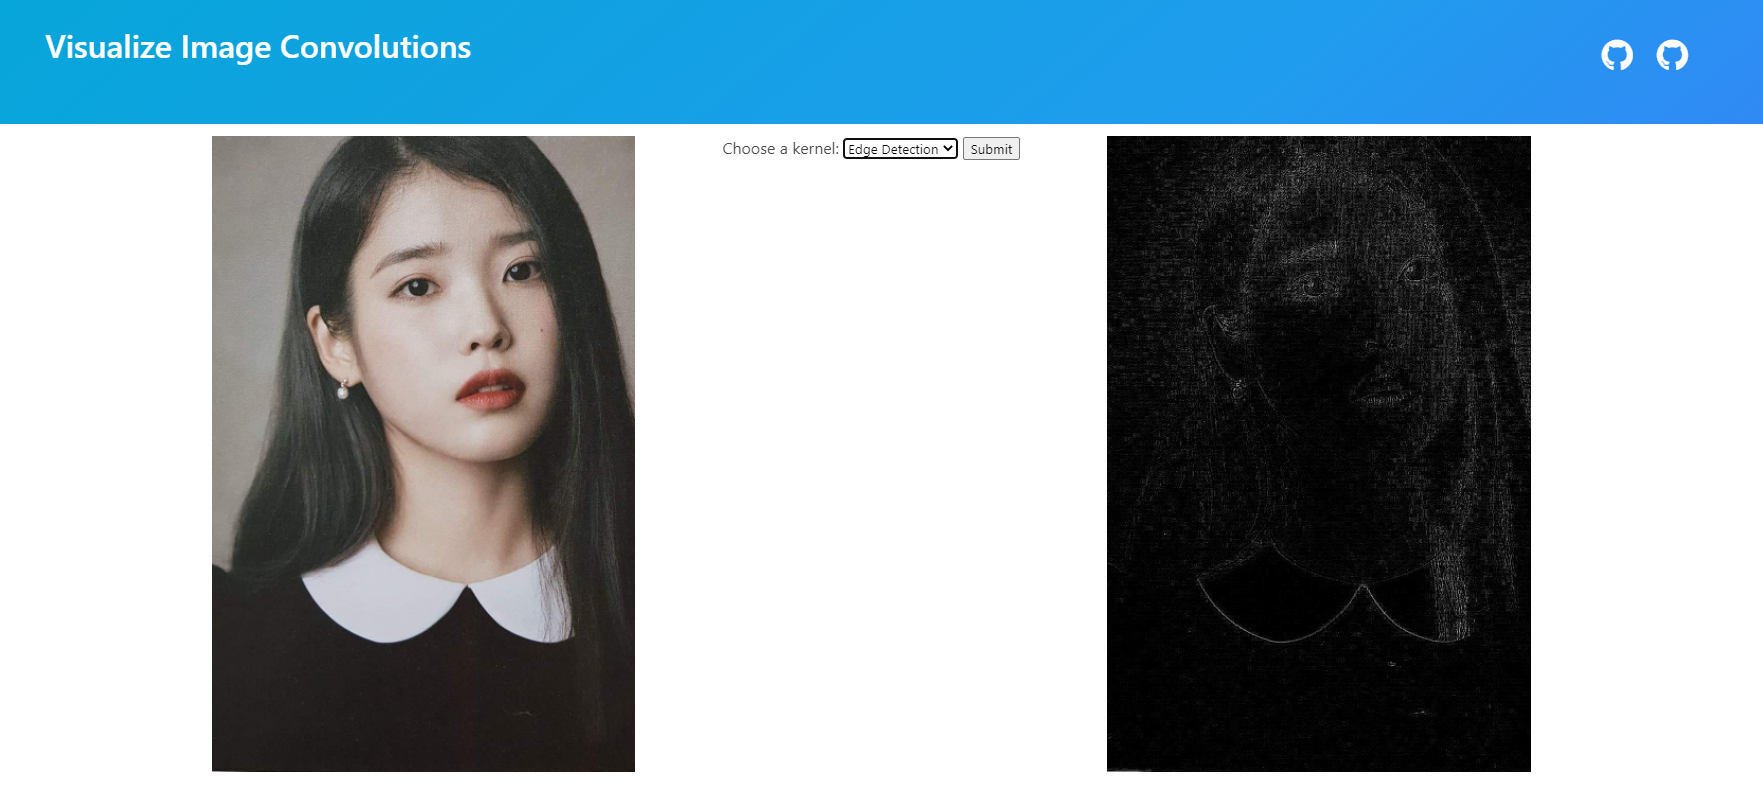
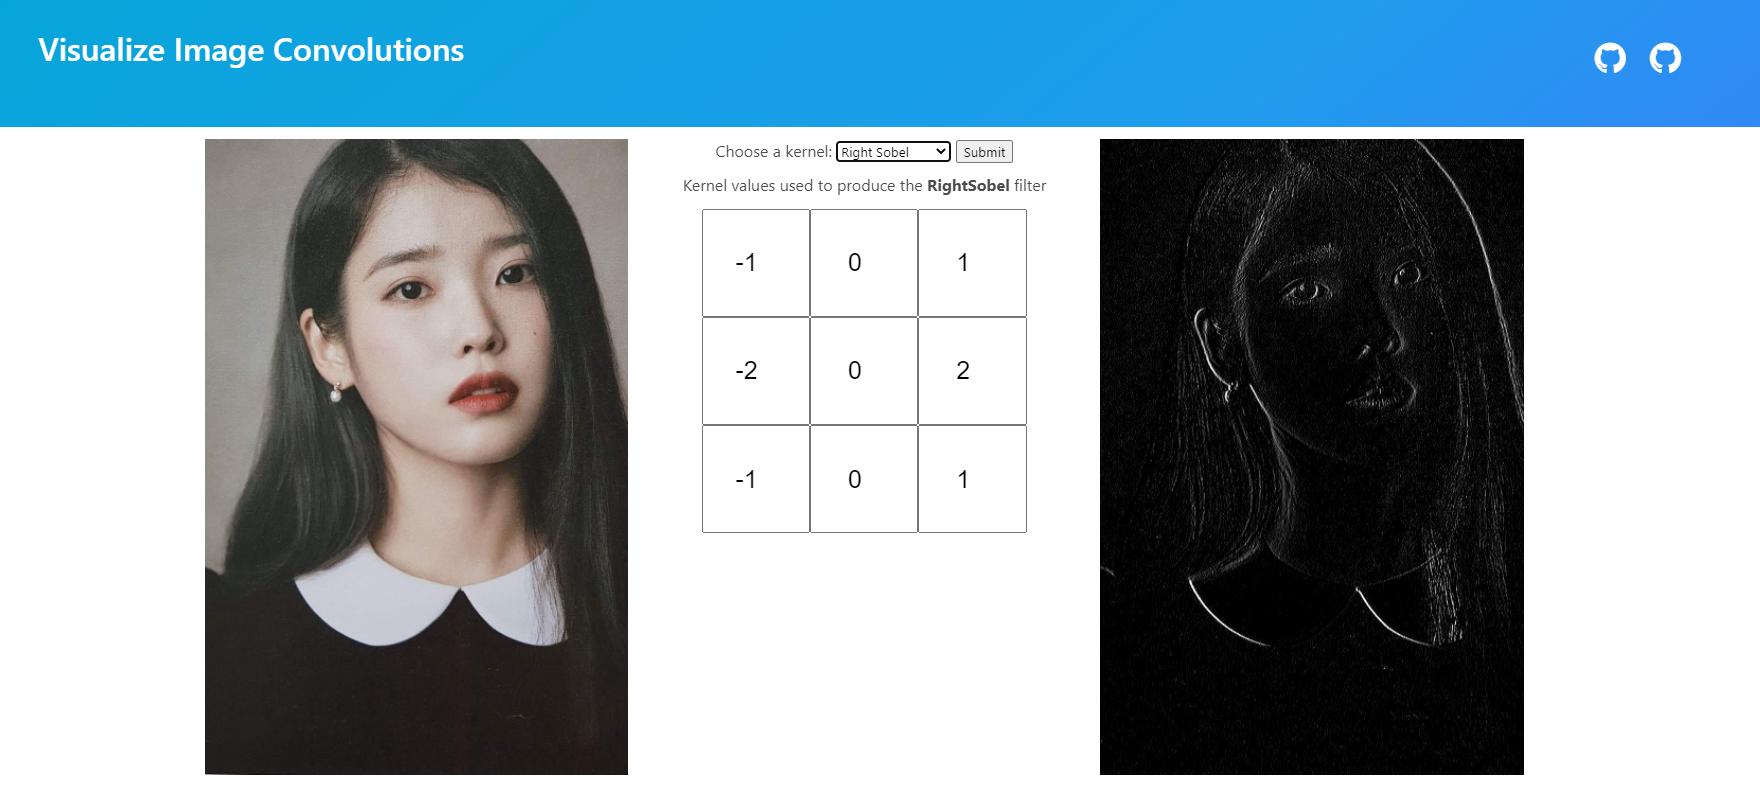
Added display for kernel vaules, added sobel kernels, and updated example image

diff --git a/templates/output.html b/templates/output.html
@@ -31,7 +31,7 @@
                     <img alt="Original Picture" src="/static/iu.jpg" />
                 </figure>
             </div>
-            <div class="column is-one-third" style="display: flex; justify-content: center;">
+            <div class="column is-one-third" style="display: flex; flex-direction: column;align-items:center;">
                 <form method="POST" action="{{ url_for('apply_convolution') }}">
                     <label for="convolutions">Choose a kernel:</label>
                     <select id="convolutions"name = "convolution_type">
@@ -40,9 +40,15 @@
                         <option value="EdgeDetection">Edge Detection</option>
                         <option value="BoxBlur">Box Blur</option>
                         <option value="GaussianBlur">Gaussian Blur</option>
+                        <option value="LeftSobel">Left Sobel</option>
+                        <option value="RightSobel">Right Sobel</option>
+                        <option value="TopSobel">Top Sobel</option>
+                        <option value="BottomSobel">Bottom Sobel</option>
                     </select>
                     <input type="submit">
                 </form>
+                <h3 style="padding: 10px 0;"> Kernel values used to produce the <b>{{ type }}</b> filter</h3>
+                <img alt="{{ type }}" src="/static/{{ type }}.PNG" />
             </div>
             <div class="column is-one-third">
                 <figure class="image is-300x450">

diff --git a/templates/main.html b/templates/main.html
@@ -31,7 +31,7 @@
                     <img alt="Original Picture" src="/static/iu.jpg" />
                 </figure>
             </div>
-            <div class="column is-one-third" style="display: flex; justify-content: center;">
+            <div class="column is-one-third" style="display: flex; flex-direction: column; align-items:center;">
                 <form method="POST" action="{{ url_for('apply_convolution') }}">
                     <label for="convolutions">Choose a kernel:</label>
                     <select id="convolutions"name = "convolution_type">
@@ -40,6 +40,10 @@
                         <option value="EdgeDetection">Edge Detection</option>
                         <option value="BoxBlur">Box Blur</option>
                         <option value="GaussianBlur">Gaussian Blur</option>
+                        <option value="LeftSobel">Left Sobel</option>
+                        <option value="RightSobel">Right Sobel</option>
+                        <option value="TopSobel">Top Sobel</option>
+                        <option value="BottomSobel">Bottom Sobel</option>
                     </select>
                     <input type="submit">
                 </form>

diff --git a/app.py b/app.py
@@ -27,7 +27,7 @@ def index_get():
 
 @app.route('/newImage/<name>')
 def add_newImg(name):
-    return render_template('output.html')
+    return render_template('output.html', type=name)
 
 @app.route('/convolutions', methods=["POST"])
 def apply_convolution():
@@ -61,13 +61,29 @@ def BoxBlur():
 def GaussianBlur():
     gblur = np.array([[1,2,1],[2,4,2],[1,2,1]],dtype='int') / 16 
     return gblur
+def LeftSobel():
+    leftsobel = np.array([[1,0,-1],[2,0,-2],[1,0,-1]],dtype='int')
+    return leftsobel
+def RightSobel():
+    rightsobel = np.array([[-1,0,1],[-2,0,2],[-1,0,1]],dtype='int')
+    return rightsobel
+def TopSobel():
+    topsobel = np.array([[1,2,1],[0,0,0],[-1,-2,-1]],dtype='int')
+    return topsobel
+def BottomSobel():
+    bottomsobel = np.array([[-1,-2,-1],[0,0,0],[1,2,1]],dtype='int')
+    return bottomsobel
 
 kernelDict = {
     "Identity": Identity,
     "Sharpen": Sharpen,
     "EdgeDetection": EdgeDetection,
     "BoxBlur": BoxBlur,
-    "GaussianBlur": GaussianBlur
+    "GaussianBlur": GaussianBlur,
+    "LeftSobel": LeftSobel,
+    "RightSobel": RightSobel,
+    "TopSobel": TopSobel,
+    "BottomSobel": BottomSobel,
 }
 # Function to access kernel dictionary for corresponding kernel
 def pick_convolution_type(name):
